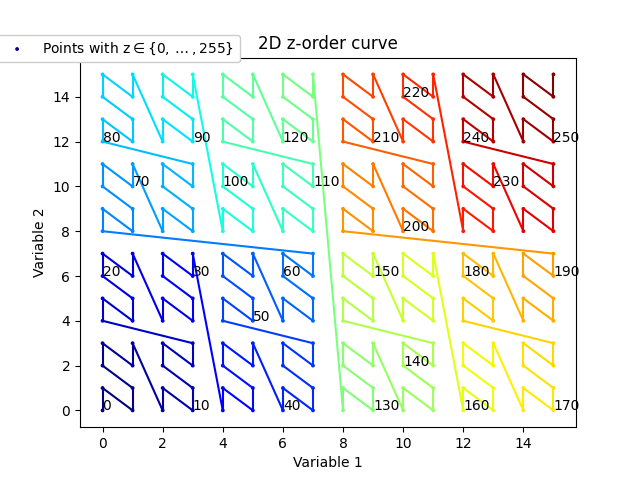
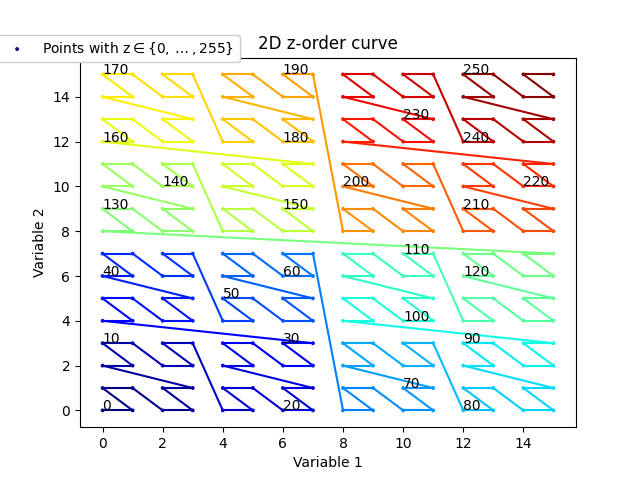
Update4
Improve magic methods computation using bitwise_reduce, improve numpy dtype consistency and support, for arrays and string manipulation methods added precomputation related to converted dtypes endianity, changed order of variables to standard convention, add terminal vizualisation of z_index interleave

Changed region(s): [[0.1562, 0.125, 0.9062, 0.875], [0.1562, 0.8438, 0.1875, 0.875]]

diff --git a/terminal_testing.py b/terminal_testing.py
@@ -1,38 +1,80 @@
+import time
+
 import numpy as np
+
+from utils.helping_methods import get_np_int_bit_string
+from z_curve_computation.ConversionPrecompute import MortonConversionPrecompute
 from z_curve_computation.z_curve_strings import z_index_string_manipulation, variables_string_manipulation
 from z_curve_computation.z_curve_magic import generate_magic_number_arrays, z_index_magic_numbers, variables_magic_numbers
 from z_curve_computation.z_curve_array_manipulation import variables_array_manipulation, z_index_array_manipulation
 
 
+def magic_interleave_terminal_visualization():
+    coordinate_np_type = np.uint8
+    index_np_type = np.uint32
+    var_count = 3
+    variables = [5, 1, 4]
+
+    B, S = generate_magic_number_arrays(coordinate_np_type, index_np_type, var_count)
+    precomputed_vals = MortonConversionPrecompute(coordinate_np_type, index_np_type)
+
+    z_index_final = z_index_string_manipulation(variables, coordinate_np_type, index_np_type, var_count, precomputed_vals)
+    print(variables, "input variables")
+    print(z_index_final, "directly computed morton number")
+    v_s = np.asarray(variables, dtype=index_np_type)
+    variable_strings = ["" for _ in range(var_count)]
+    print()
+    print("spread bits")
+    for q in range(len(B) - 1, -1, -1):
+        v_s = (v_s | (v_s << S[q])) & B[q]
+        for k in range(var_count):
+            variable_strings[k] += get_np_int_bit_string(v_s[k]).replace("0", ".")+"\n"
+    for i in range(var_count):
+        variable_strings[i] = variable_strings[i].strip()
+        print("variable "+str(i))
+        print(variable_strings[i])
+    print()
+    print("final process")
+    for j in range(var_count):
+        print(get_np_int_bit_string(v_s[j]).replace("0",".")," original variable "+str(j))
+    print()
+    final_number = np.dtype(index_np_type).type(0)
+    for k in np.arange(var_count, dtype=index_np_type):
+        value = v_s[k] << k
+        final_number |= value
+        print(get_np_int_bit_string(value).replace("0", "."), " shifted variable "+str(k))
+    print(get_np_int_bit_string(final_number).replace("0", "."), " bitwise or (=morton number)")
+    print(final_number, "resulting morton number")
+
 def terminal_print_test():
     coordinate_np_type = np.uint16
     index_np_type = np.uint64
 
-    val1 = coordinate_np_type(255)
-    val2 = coordinate_np_type(255)
-    val3 = coordinate_np_type(0)
-    val4 = coordinate_np_type(1)
-    val5 = coordinate_np_type(1)
-    val6 = coordinate_np_type(1)
-    val7 = coordinate_np_type(1)
-    val8 = coordinate_np_type(1)
+    val1 = 128
+    val2 = 55555
+    val3 = 0
+    val4 = 1
+    val5 = 1
+    val6 = 1
+    val7 = 1
+    val8 = 1
     var_count = 4
 
     B, S = generate_magic_number_arrays(coordinate_np_type, index_np_type, var_count)
+    precomputed_vals = MortonConversionPrecompute(coordinate_np_type, index_np_type)
 
     z_indexes_arg = np.array([val1, val2], dtype=index_np_type)
 
     print(z_indexes_arg, "z_indexes argument")
-    variables_decoded = variables_magic_numbers(z_indexes_arg, coordinate_np_type, index_np_type, var_count, B, S)
-    #variables_decoded_scalar = variables_magic_numbers(val1, coordinate_np_type, index_np_type, var_count, B, S)
+    variables_decoded = variables_array_manipulation(z_indexes_arg, coordinate_np_type, index_np_type, var_count, precomputed_vals)
+    # variables_decoded_scalar = variables_magic_numbers(val1, coordinate_np_type, index_np_type, var_count, B, S)
 
     print(variables_decoded, "initially decoded variables")
 
-    z_array_manipulation = z_index_array_manipulation(variables_decoded, coordinate_np_type, index_np_type, var_count)
+    z_array_manipulation = z_index_array_manipulation(variables_decoded, coordinate_np_type, index_np_type, var_count, precomputed_vals)
     print(z_array_manipulation, "z_s array manipulation")
 
-    print(z_index_string_manipulation(variables_decoded, coordinate_np_type, index_np_type, var_count),
-          "z_s string manipulation")
-    z_magic = z_index_magic_numbers(variables_decoded, index_np_type, var_count, B, S)
-
+    z_string_manipulation = z_index_string_manipulation(variables_decoded, coordinate_np_type, index_np_type, var_count, precomputed_vals)
+    print(z_string_manipulation, "z_s string manipulation")
+    z_magic = z_index_magic_numbers(variables_decoded, index_np_type, B, S)
     print(z_magic, "z_s magic")

diff --git a/z_curve_computation/z_curve_strings.py b/z_curve_computation/z_curve_strings.py
@@ -3,40 +3,40 @@ from utils.helping_methods import get_np_int_bit_string_width_arg,get_np_int_bit
 
 
 # methods using python string manipulation, works in a general case
-def z_index_string_manipulation(variables_array, coord_type, index_type, var_count):
-    bigger_endian_index_type = np.dtype(index_type).newbyteorder('>')  # ensures correct order for conversion
+def z_index_string_manipulation(variables_array, coord_type, index_type, var_count, precomputed_vals):
     coordinate_bits_count = np.iinfo(coord_type).bits
     index_bits_count = np.iinfo(index_type).bits
     final_string_filled_len = var_count * coordinate_bits_count
+    at_least_2d_vars = np.atleast_2d(np.asarray(variables_array, dtype=coord_type))
+    z_index_arr = np.empty(len(at_least_2d_vars), dtype=index_type)
     padding_zeroes = "0" * max(0, index_bits_count - final_string_filled_len)
-    at_least_2d_vars = np.atleast_2d(variables_array)
-    z_index_arr = np.empty(len(at_least_2d_vars), dtype=bigger_endian_index_type)
+    var_count_minus_one = var_count-1
     for index, variables in enumerate(at_least_2d_vars):
         bit_strings = [get_np_int_bit_string_width_arg(var, coordinate_bits_count) for var in variables]
         final_bit_string = ""
-        for i in range(final_string_filled_len):
-            final_bit_string += bit_strings[i % var_count][i//var_count]
-        final_bit_string = padding_zeroes+final_bit_string
-        result_bytes = np.packbits([int(c_bit) for c_bit in final_bit_string])
-        z_index_arr[index] = np.frombuffer(result_bytes, dtype=bigger_endian_index_type)[0]
+        for i in range(final_string_filled_len)[::-precomputed_vals.index_order]:
+            final_bit_string += bit_strings[var_count_minus_one-i % var_count][i//var_count]
+        final_bit_string = "".join((padding_zeroes, final_bit_string,)[::-precomputed_vals.index_order])
+        result_bytes = np.packbits([int(c_bit) for c_bit in final_bit_string], bitorder=precomputed_vals.index_bit_order)
+        z_index_arr[index] = np.frombuffer(result_bytes, dtype=index_type)[0]
     return np.squeeze(z_index_arr)
 
 
-def variables_string_manipulation(z_index_arr, coord_type, index_type, var_count):
-    bigger_endian_coord_type = np.dtype(coord_type).newbyteorder('>')  # ensures correct order for conversion
+def variables_string_manipulation(z_index_arr, coord_type, index_type, var_count, precomputed_vals):
     coordinate_bits_count = np.iinfo(coord_type).bits
     index_bits_count = np.iinfo(index_type).bits
     final_string_filled_len = var_count * coordinate_bits_count
-    z_indexes_at_least_1d=np.atleast_1d(index_type(z_index_arr))
-    variables_arr = np.empty((len(z_indexes_at_least_1d), var_count), dtype=bigger_endian_coord_type)
-    for index, z_index in enumerate(z_indexes_at_least_1d):
+    z_index_arr_at_least_1d = np.atleast_1d(np.asarray(z_index_arr, dtype=index_type))
+    variables_arr = np.empty((len(z_index_arr_at_least_1d), var_count), dtype=coord_type)
+    var_count_minus_one = var_count-1
+    for index, z_index in enumerate(z_index_arr_at_least_1d):
         z_index_str = get_np_int_bit_string(z_index)
         var_strings = ["" for _ in range(var_count)]
         start_index = index_bits_count-final_string_filled_len
-        for i in range(final_string_filled_len):
-            var_strings[i % var_count] += z_index_str[start_index+i]
+        for i in range(final_string_filled_len)[::-precomputed_vals.coord_order]:
+            var_strings[var_count_minus_one-i % var_count] += z_index_str[start_index+i]
         variable_array = [np.uint8(var_strings[i//coordinate_bits_count][i % coordinate_bits_count]) for i in range(final_string_filled_len)]
-        result_bytes = np.packbits(variable_array)
-        variables_arr[index] = np.frombuffer(result_bytes, dtype=bigger_endian_coord_type)
+        result_bytes = np.packbits(variable_array, bitorder=precomputed_vals.coord_bit_order)
+        variables_arr[index] = np.frombuffer(result_bytes, dtype=coord_type)
     return np.squeeze(variables_arr)
 

diff --git a/z_curve_computation/z_curve_array_manipulation.py b/z_curve_computation/z_curve_array_manipulation.py
@@ -2,31 +2,29 @@ import numpy as np
 
 
 # methods using numpy array manipulation, works only if variable_count==index_bits_count//coordinate_bits_count
-def z_index_array_manipulation(variables, coord_type, index_type, var_count):
-    bigger_endian_index_type = np.dtype(index_type).newbyteorder('>')
+def z_index_array_manipulation(variables, coord_type, index_type, var_count, precomputed_vals):
     coordinate_bits_count = np.iinfo(coord_type).bits
-    variables_transposed = coord_type(variables).T
-    z_array_len = np.size(variables_transposed[0])
-    if variables_transposed.dtype.byteorder != ">" and (variables_transposed.dtype.byteorder != "=" or np.little_endian):
+    variables_transposed = np.asarray(variables, dtype=coord_type).T[::precomputed_vals.index_order]
+    if precomputed_vals.swapping_bytes:
         variables_transposed = variables_transposed.byteswap()
+    z_array_len = np.size(variables_transposed[0])
     variables_bytes = variables_transposed.tobytes()
-    variables_bits = np.unpackbits(np.frombuffer(variables_bytes, dtype=np.uint8))
+    variables_bits = np.unpackbits(np.frombuffer(variables_bytes, dtype=np.uint8), bitorder=precomputed_vals.index_bit_order)
     interleaved_bits = variables_bits.reshape(var_count, coordinate_bits_count*z_array_len).T
-    packed_index_bytes = np.packbits(interleaved_bits)
-    return np.squeeze(np.frombuffer(packed_index_bytes, dtype=bigger_endian_index_type))
+    packed_index_bytes = np.packbits(interleaved_bits, bitorder=precomputed_vals.index_bit_order)
+    return np.squeeze(np.frombuffer(packed_index_bytes, dtype=index_type))
 
 
-def variables_array_manipulation(z_index_arr, coord_type, index_type, var_count):
-    bigger_endian_coord_type = np.dtype(coord_type).newbyteorder('>')
+def variables_array_manipulation(z_index_arr, coord_type, index_type, var_count, precomputed_vals):
     coordinate_bits_count = np.iinfo(coord_type).bits
     z_array_len = np.size(z_index_arr)
-    z_index_arr_idx_type = index_type(z_index_arr)
-    if z_index_arr_idx_type.dtype.byteorder != ">" and (z_index_arr_idx_type.dtype.byteorder != "=" or np.little_endian):
+    z_index_arr_idx_type = np.asarray(z_index_arr,dtype=index_type)
+    if precomputed_vals.swapping_bytes:
         z_index_arr_idx_type = z_index_arr_idx_type.byteswap()
     value_bytes = z_index_arr_idx_type.tobytes()
-    bits = np.unpackbits(np.frombuffer(value_bytes, dtype=np.uint8))
+    bits = np.unpackbits(np.frombuffer(value_bytes, dtype=np.uint8), bitorder=precomputed_vals.coord_bit_order)
     conversion_bits_array = bits.reshape((coordinate_bits_count*z_array_len, var_count)).T
-    result_bytes = np.packbits(conversion_bits_array)
-    flattened_variable_array = np.frombuffer(result_bytes, dtype=bigger_endian_coord_type)
-    variable_array = flattened_variable_array.reshape((var_count, z_array_len)).T
+    result_bytes = np.packbits(conversion_bits_array, bitorder=precomputed_vals.coord_bit_order)
+    flattened_variable_array = np.frombuffer(result_bytes, dtype=coord_type)
+    variable_array = flattened_variable_array.reshape((var_count, z_array_len))[::precomputed_vals.coord_order].T
     return np.squeeze(variable_array)

diff --git a/z_curve_computation/z_curve_magic.py b/z_curve_computation/z_curve_magic.py
@@ -3,29 +3,29 @@ import numpy as np
 
 
 # methods using byte magic numbers, works in a general case
-def z_index_magic_numbers(variables, index_type, var_count, B, S):
-    v_s = index_type(variables).T
-    z_s = np.zeros_like(v_s[0], dtype=index_type)
-    for q in range(len(B) - 1, -1, -1):
-        v_s = (v_s | (v_s << S[q])) & B[q]
-    for i in range(len(v_s)):
-        vs_shifted = v_s[var_count - i - 1] << index_type(i)
-        z_s = z_s | vs_shifted
-    return z_s
+def z_index_magic_numbers(variables, index_type, B, S):
+    v_s = np.asarray(variables, dtype=index_type)
+    vs_ndim_minus_one = v_s.ndim-1
+    for q in range(B.shape[0] - 1, -1, -1):
+        v_s |= v_s << S[q]
+        v_s &= B[q]
+    shift_arrange = np.arange(v_s.shape[vs_ndim_minus_one], dtype=index_type)
+    shifted_vs = v_s << shift_arrange.reshape((-1,)+v_s[0].shape)
+    return np.bitwise_or.reduce(shifted_vs, axis=vs_ndim_minus_one, out=v_s[:, 0] if vs_ndim_minus_one > 0 else None)
 
 
 def variables_magic_numbers(z_indexes_vars, coord_type, index_type, var_count, B, S):
-    z_index_extended = index_type(z_indexes_vars)[..., np.newaxis]
-    z_extended = (z_index_extended >> np.arange(var_count - 1, -1, -1, dtype=index_type)) & B[0]
-    for q in range(len(B) - 1):
+    z_index_extended = np.asarray(z_indexes_vars, dtype=index_type)[..., np.newaxis]
+    z_extended = (z_index_extended >> np.arange(var_count, dtype=index_type)) & B[0]
+    for q in range(B.shape[0] - 1):
         z_extended |= z_extended >> S[q]
         z_extended &= B[q + 1]
-    return coord_type(z_extended)
+    return z_extended.astype(coord_type, copy=False)
 
 
 def generate_magic_number_arrays(coordinate_np_type, index_np_type, var_count):
     coordinate_bits_count = np.iinfo(coordinate_np_type).bits
-    filled_len = index_np_type(var_count*coordinate_bits_count)
+    filled_len = var_count*coordinate_bits_count
     arrays_length = math.floor(math.log2(filled_len/var_count))
     powers_of_two = 2**(np.arange(arrays_length, dtype=index_np_type))
     bits_chunks = 2**powers_of_two-1
@@ -33,6 +33,6 @@ def generate_magic_number_arrays(coordinate_np_type, index_np_type, var_count):
     S = calculation_shifts-powers_of_two
     B = np.zeros(arrays_length, dtype=index_np_type)
     for i in range(arrays_length):
-        for q in np.arange(filled_len//calculation_shifts[i],dtype=index_np_type):
+        for q in np.arange(filled_len//calculation_shifts[i], dtype=index_np_type):
             B[i] |= bits_chunks[i] << q*calculation_shifts[i]
     return B, S

diff --git a/visualization/z_visualization.py b/visualization/z_visualization.py
@@ -2,10 +2,8 @@ import numpy as np
 import functools
 import matplotlib.pyplot as plt
 from matplotlib.ticker import MaxNLocator
-
 from z_curve_computation.z_curve_magic import variables_magic_numbers, generate_magic_number_arrays
 from utils.helping_methods import classic_nd_variables
-# from z_curve_computation.z_curve_array_manipulation import variables_array_manipulation
 
 
 def curves_comparison_2d():
@@ -33,8 +31,6 @@ def distances_comparison():
     index_np_type = np.uint64
     var_count = 8
     modulo_grid = 6
-    # var_func = functools.partial(variables_array_manipulation, coord_type=coordinate_np_type, index_type=index_np_type,
-    #                             var_count=var_count)
     B, S = generate_magic_number_arrays(coordinate_np_type, index_np_type, var_count)
 
     var_func = functools.partial(variables_magic_numbers, coord_type=coordinate_np_type, index_type=index_np_type,
@@ -49,8 +45,6 @@ def curves_comparison_general(coordinate_np_type, index_np_type, var_count, grid
     B, S = generate_magic_number_arrays(coordinate_np_type, index_np_type, var_count)
     var_func = functools.partial(variables_magic_numbers, coord_type=coordinate_np_type, index_type=index_np_type,
                                  var_count=var_count, B=B, S=S)
-    # var_func = functools.partial(variables_array_manipulation, coord_type=coordinate_np_type,
-    #                             index_type=index_np_type, var_count=var_count)
 
     classic_var_func = functools.partial(classic_nd_variables, mod_val=grid_modulo, n_dim=var_count)
     z_index_visualisation(var_func, True, [0, grid_modulo ** var_count], coordinate_np_type, index_np_type,
@@ -81,11 +75,9 @@ def z_index_visualisation(var_function, vector_function, bounds,coord_np_type, i
     for i in range(var_count):
         axis = getattr(ax,axis_labels[i]+"axis")
         axis.set_major_locator(MaxNLocator(integer=True))
-        axis.set_label("Variable "+str(i))
-
+        axis.label.set_text("Variable "+str(i+1))
     ax.scatter(*vars_variables.T, c=z_index_colors, label='Points with z'+r"$\in$"+"{"+r"${x},\dots,{y}$".format(x=str(bounds[0]), y=str(bounds[1]-1))+"}", s=z_index_points_size)
     ax.set_title(title)
-
     # visualizes text labels only for indexes which are divisible by modulo_val
     data_strings = [(i*labels_modulo_val, str(i*labels_modulo_val)) for i in range(data_length//labels_modulo_val+1)]
     for index, txt in data_strings:

diff --git a/z_curve_computation/ConversionPrecompute.py b/z_curve_computation/ConversionPrecompute.py
@@ -1,0 +1,14 @@
+import numpy as np
+
+
+class MortonConversionPrecompute:
+    def __init__(self, coord_type, index_type):
+        coord_type_byte_order = np.dtype(coord_type).byteorder
+        index_type_byte_order = np.dtype(index_type).byteorder
+        coord_little = coord_type_byte_order == "<" or (coord_type_byte_order == "=" and np.little_endian)
+        index_little = index_type_byte_order == "<" or (index_type_byte_order == "=" and np.little_endian)
+        self.index_order = 2 * index_little - 1
+        self.coord_order = 2 * coord_little - 1
+        self.coord_bit_order = 'little' if coord_little else 'big'
+        self.index_bit_order = 'little' if index_little else 'big'
+        self.swapping_bytes = coord_little != index_little

diff --git a/main_script.py b/main_script.py
@@ -1,8 +1,9 @@
 import numpy as np
 from visualization.z_visualization import distances_comparison, curves_comparison_2d, curves_comparison_3d
-from terminal_testing import terminal_print_test
+from terminal_testing import terminal_print_test, magic_interleave_terminal_visualization
 
 terminal_print_test()
+#magic_interleave_terminal_visualization()
 
 #distances_comparison()
 #curves_comparison_2d()
